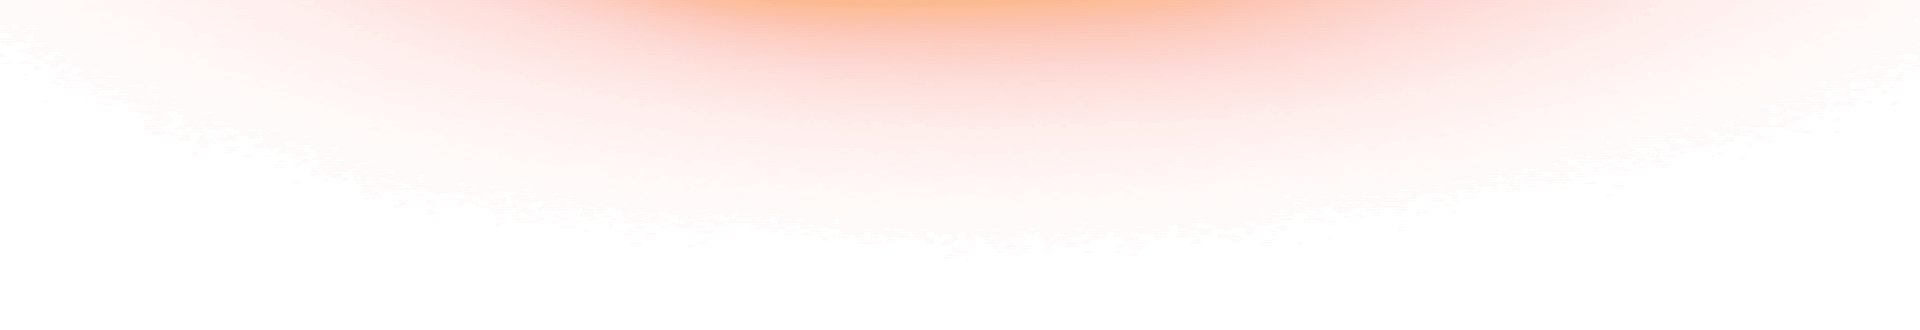
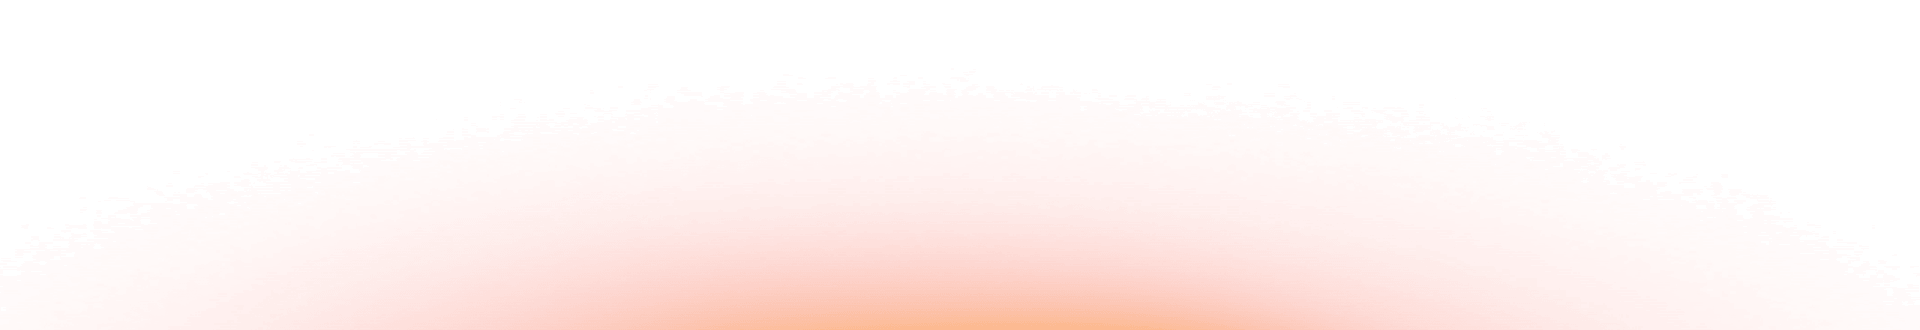
changed button styles & moved background image to bottom

diff --git a/app/components/custom-button.tsx b/app/components/custom-button.tsx
@@ -1,24 +1,66 @@
-import { Text, TouchableOpacity } from 'react-native';
+import { LinearGradient } from 'expo-linear-gradient';
+import { Pressable, StyleSheet, View } from 'react-native';
+import Svg, { Polygon } from 'react-native-svg';
+import CustomText from './custom-text';
 
 interface CustomButtonProps {
   title: string;
-  backgroundColor: string;
   onPress: () => void;
   disabled?: boolean;
 }
 
-const CustomButton = ({ title, backgroundColor, onPress, disabled } : CustomButtonProps) => {
+const BUTTON_W = 150;
+const BUTTON_H = 50;
+const CUT_SIZE = 20;
+
+const CustomButton = ({ title, onPress, disabled } : CustomButtonProps) => {
   return (
-    <TouchableOpacity
-      onPress={onPress}
-      disabled={disabled}
-      className={`${disabled ? 'bg-gray-400' : backgroundColor} rounded-full px-4 py-2`}
-    >
-      <Text className={`text-white text-center font-semibold`}>
-        {title}
-      </Text>
-    </TouchableOpacity>
+    <Pressable onPress={onPress} style={[styles.wrapper, disabled && styles.disabledWrapper]}>
+      <LinearGradient
+        colors={disabled ? ['transparent', 'transparent', 'transparent'] : ['#dee9e9', '#dee9e9', '#a0a8a8']}
+        locations={[0, 0.3125, 1]}
+        start={{ x: 0.5, y: 0 }}
+        end={{ x: 0.5, y: 1 }}
+        style={{ width: BUTTON_W, height: BUTTON_H }}
+      />
+      <Svg width={BUTTON_W} height={BUTTON_H} style={StyleSheet.absoluteFill}>
+        {/* Top-left cut */}
+        <Polygon
+          points={`0,0 ${CUT_SIZE},0 0,${CUT_SIZE}`}
+          fill={disabled ? "transparent" : "#1c1c1c"}
+        />
+        {/* Bottom-right cut */}
+        <Polygon
+          points={`${BUTTON_W},${BUTTON_H} ${BUTTON_W - CUT_SIZE},${BUTTON_H} ${BUTTON_W},${BUTTON_H - CUT_SIZE}`}
+          fill={disabled ? "transparent" : "#1c1c1c"}
+        />
+      </Svg>
+      <View style={[styles.textContainer, { width: BUTTON_W, height: BUTTON_H }]}>
+        <CustomText style={[styles.text, disabled && styles.disabledText]}>{title}</CustomText>
+      </View>
+    </Pressable>
   );
 };
+
+const styles = StyleSheet.create({
+  wrapper: { width: BUTTON_W, height: BUTTON_H, position: 'relative' },
+  textContainer: {
+    position: 'absolute',
+    top: 0,
+    left: 0,
+    justifyContent: 'center',
+    alignItems: 'center',
+  },
+  text: { color: '#1a1a1a', fontWeight: 'light', fontSize: 24 },
+  disabledWrapper: {
+    borderWidth: 2,
+    borderColor: '#b0b0b0',
+    borderStyle: 'dashed',
+    backgroundColor: 'transparent',
+  },
+  disabledText: {
+    color: '#d1d1d1',
+  },
+});
 
 export default CustomButton;

diff --git a/app/index.tsx b/app/index.tsx
@@ -82,24 +82,14 @@ export default function Index() {
   return (
     <ScrollView className='bg-[#1c1c1c]'>
       <View className='flex justify-center'>
-        <ImageBackground 
-          source={require("../assets/images/shadow-orange.png")} 
-          resizeMode="cover" 
-          className='absolute top-0'
-          style={{
-            width: '100%',
-          }}
-        ></ImageBackground>
         <View className='flex flex-row justify-between px-4 py-8'>
           <CustomButton
             title="Back"
-            backgroundColor="bg-emerald-800"
             onPress={handlePrev}
             disabled={questPartIndex === 0}
           />
           <CustomButton
             title="Next"
-            backgroundColor="bg-emerald-800"
             onPress={handleNext}
             disabled={questPartIndex === (data?.parts.length ?? 1) - 1}
           />
@@ -128,9 +118,9 @@ export default function Index() {
             <CustomText className={`text-xs text-emerald-500 flex justify-center ${isCompleted ? 'opacity-100' : 'opacity-0'}`}>Completed</CustomText>
             <View className='flex'>
               {build.variants.map((variant: Variant, variantIndex: number) => (
-                <View className='mt-16 mb-8'>
+                <View className='mt-16 mb-8' key={variantIndex}>
                   <CustomText className='text-xl text-white font-semibold'>VARIANT {variantIndex + 1}</CustomText>
-                  <View key={variantIndex}>
+                  <View>
                     <Table
                       tableData={variant.parts.flatMap((part) => part.items)}
                     />
@@ -142,6 +132,14 @@ export default function Index() {
         )}
 
       </View>
+      <ImageBackground 
+          source={require("../assets/images/shadow-orange.png")} 
+          resizeMode="cover" 
+          className='absolute bottom-0'
+          style={{
+            width: '100%',
+          }}
+        ></ImageBackground>
     </ScrollView>
   );
 }
